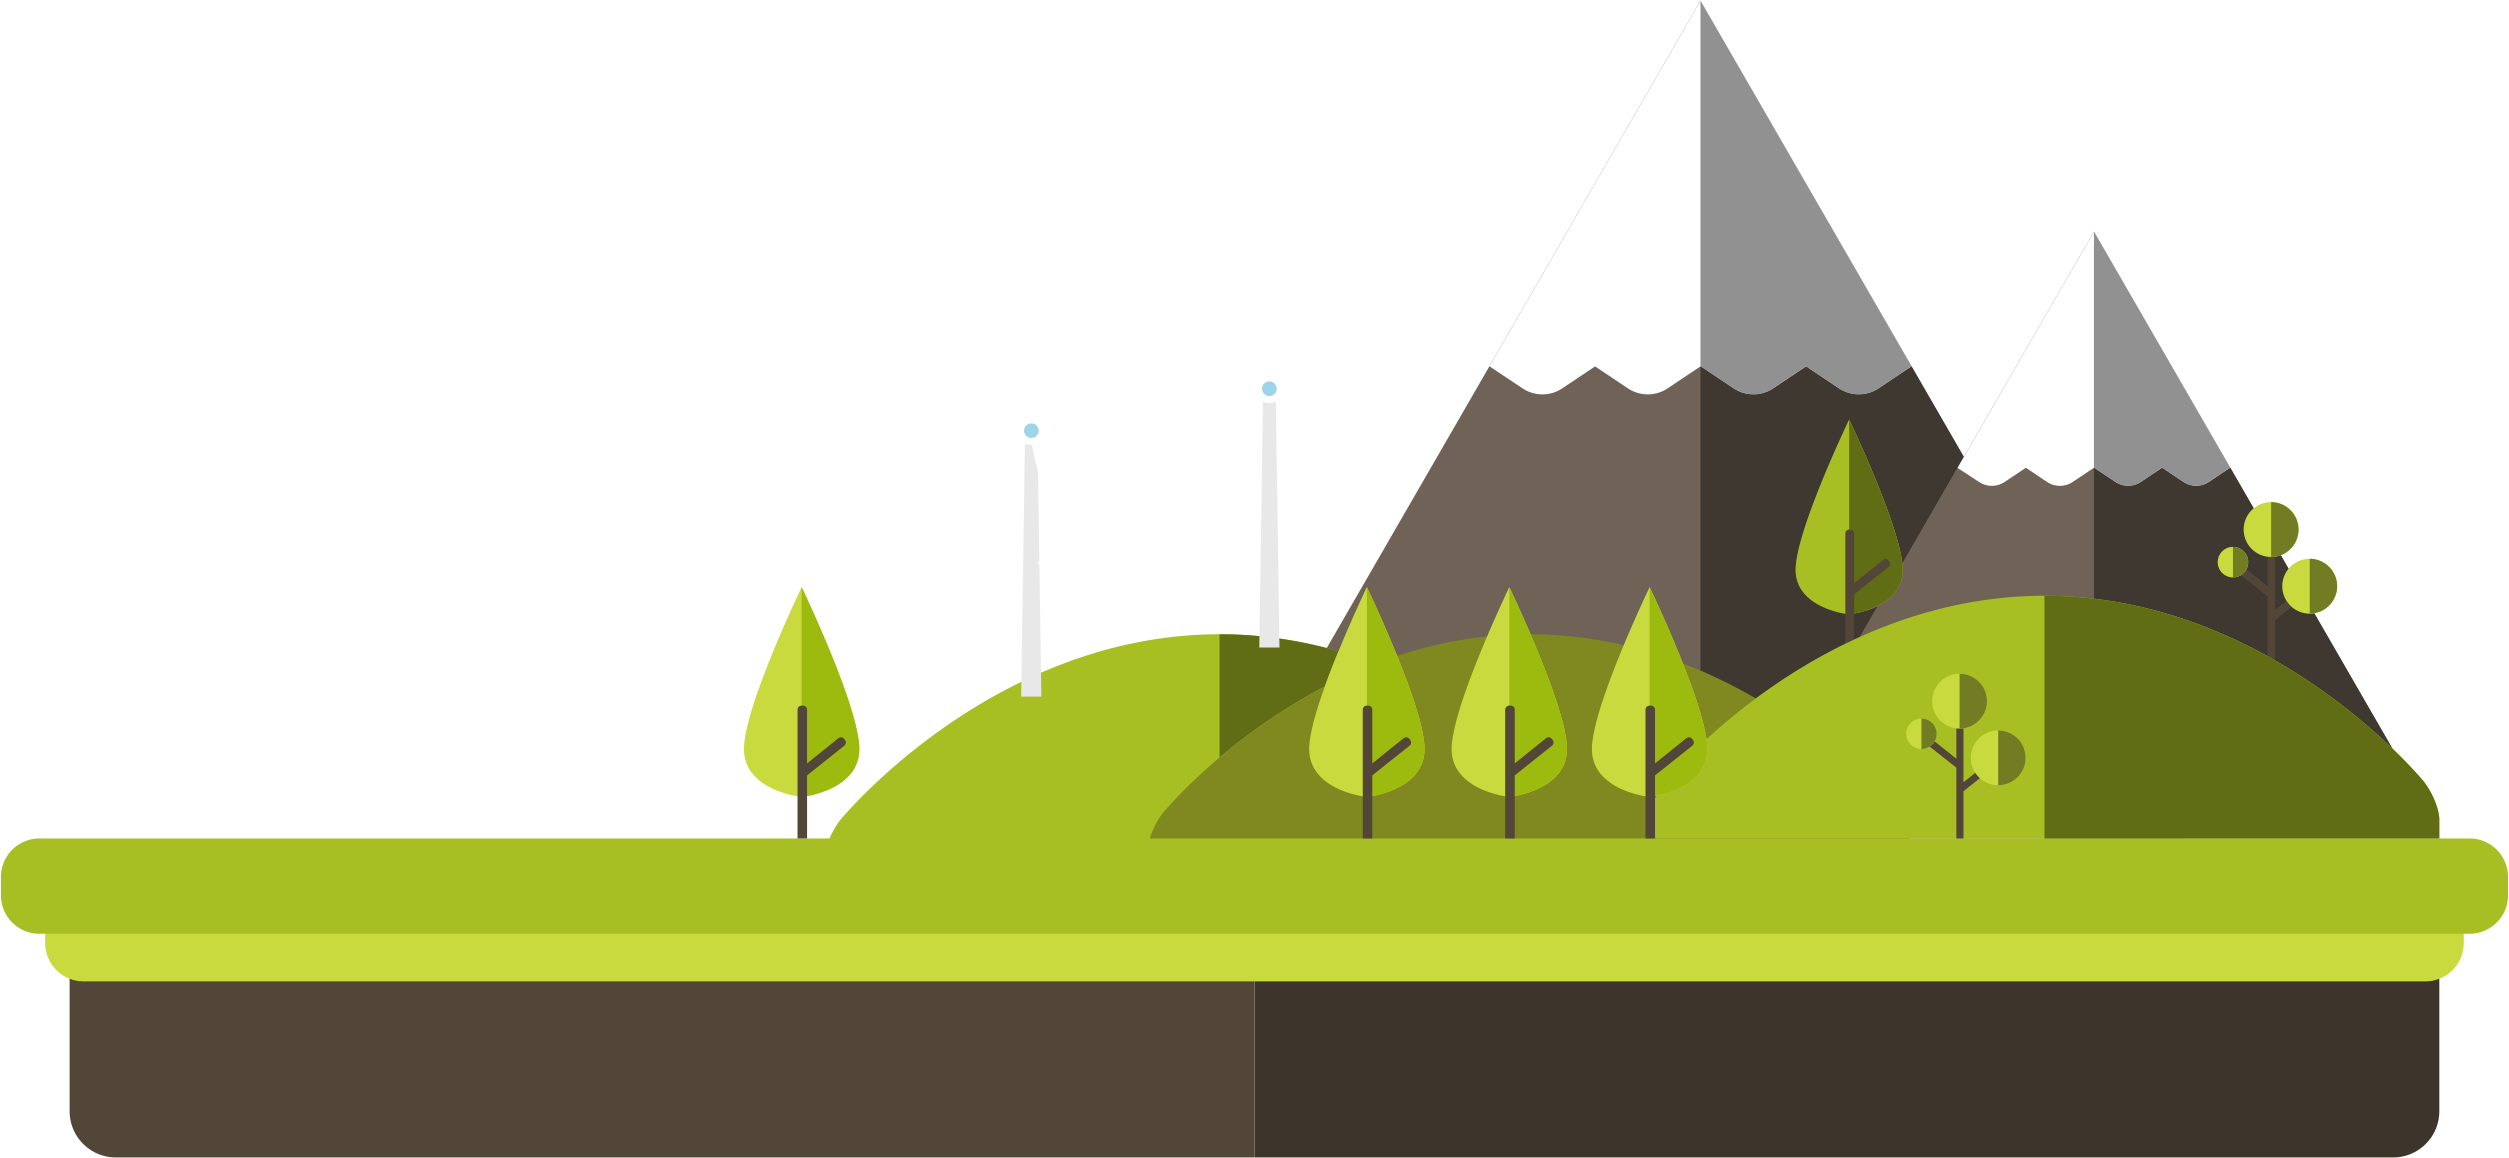
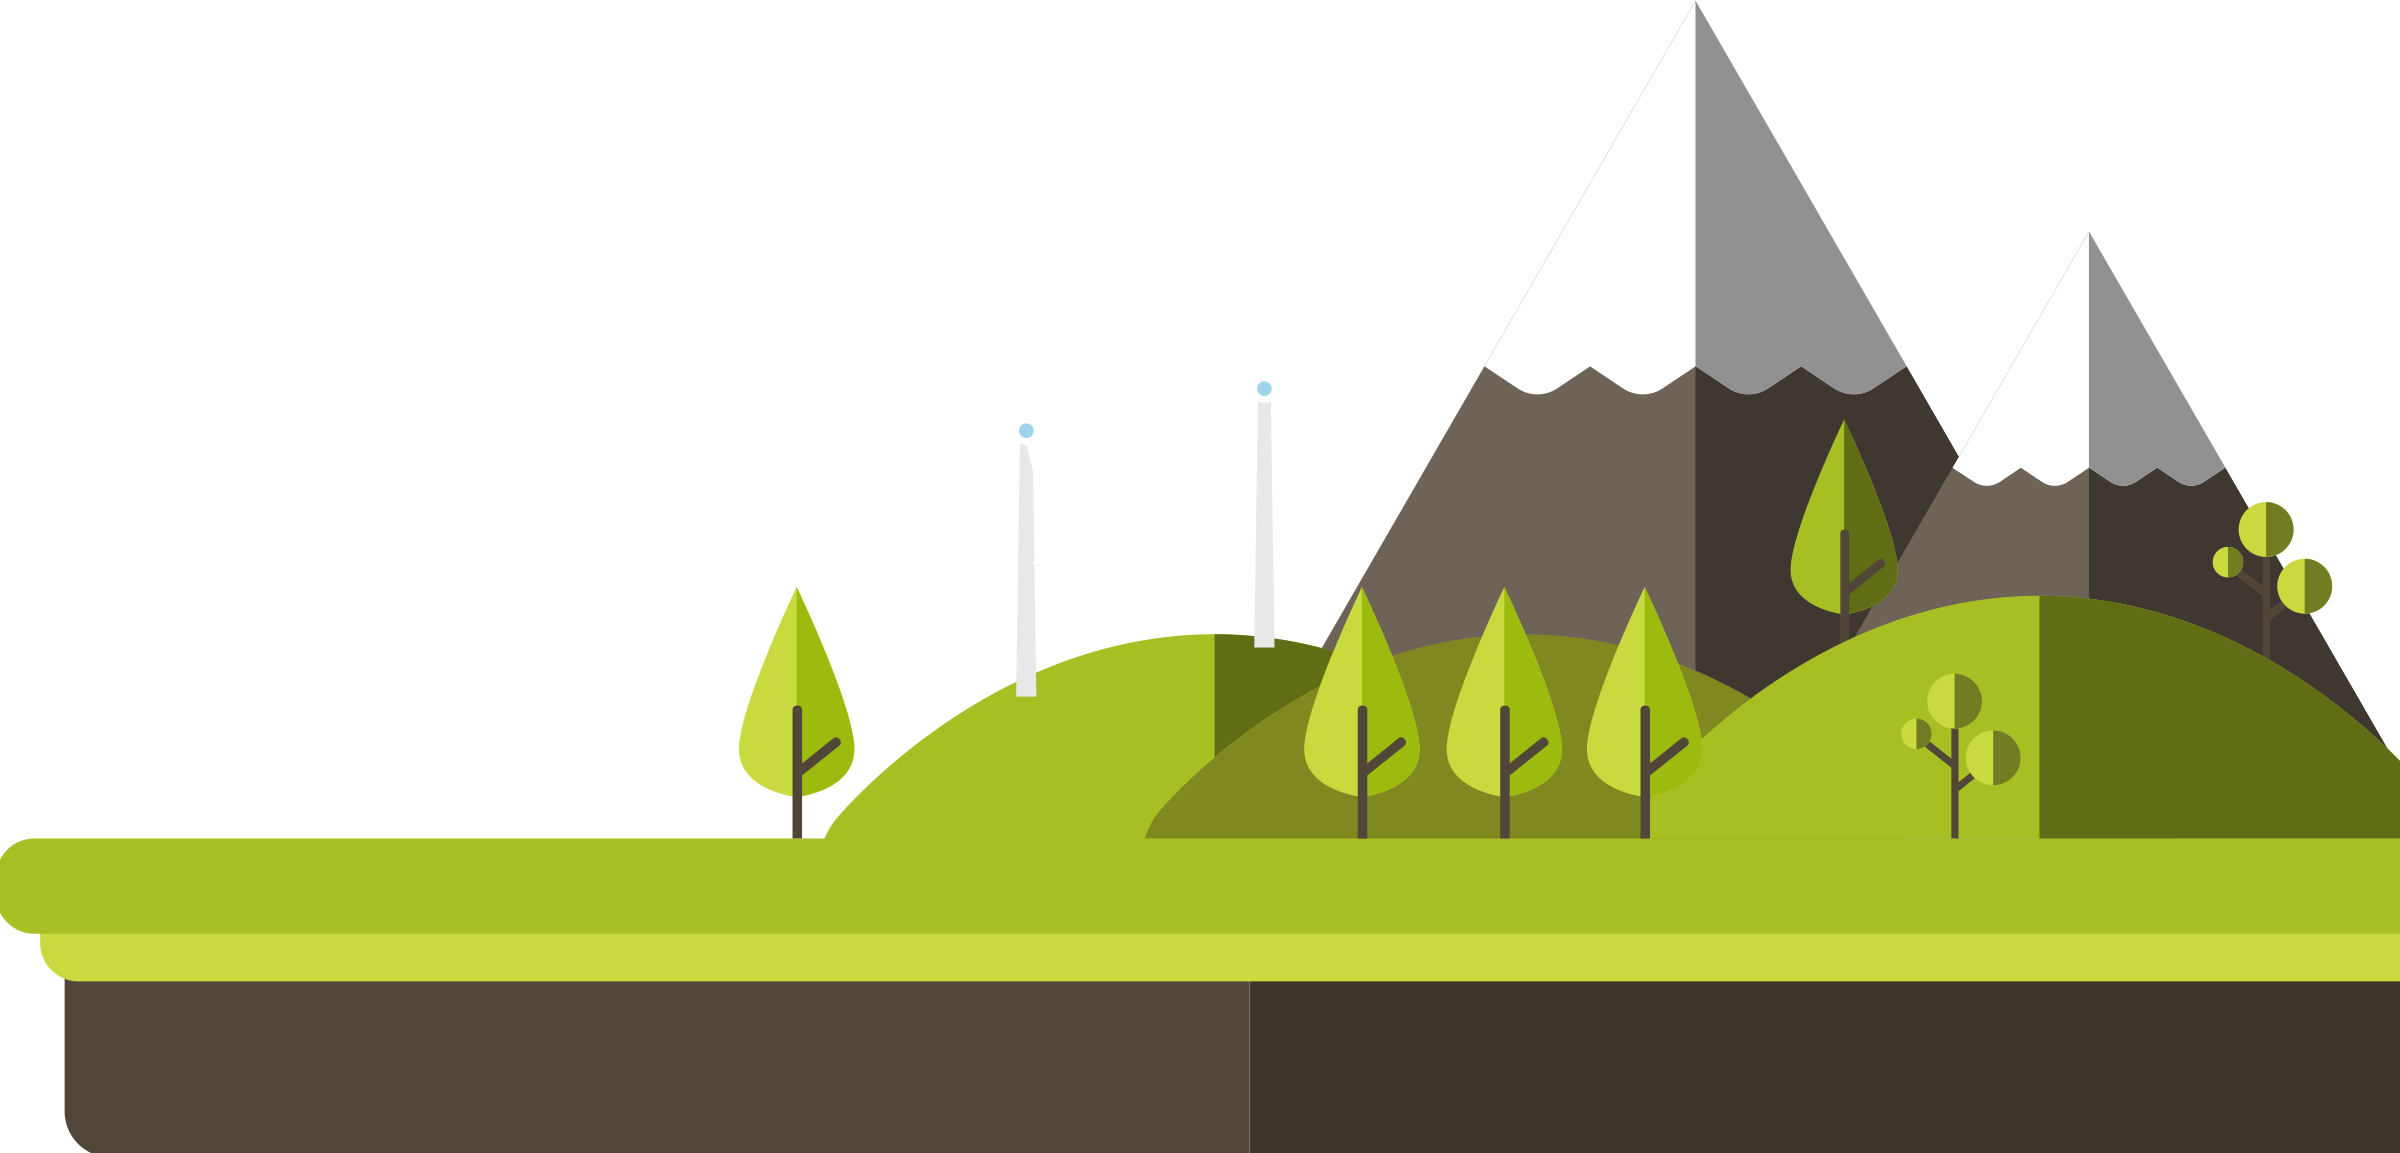
add preloader, add istana, backawan, gunung
belum responsive

diff --git a/index.html b/index.html
@@ -14,7 +14,57 @@
 </head>
 
 <body>
+    <div class="preloader-background">
+        <div class="preloader-wrapper big active">
+            <div class="spinner-layer spinner-blue">
+                <div class="circle-clipper left">
+                    <div class="circle"></div>
+                </div>
+                <div class="gap-patch">
+                    <div class="circle"></div>
+                </div>
+                <div class="circle-clipper right">
+                    <div class="circle"></div>
+                </div>
+            </div>
 
+            <div class="spinner-layer spinner-red">
+                <div class="circle-clipper left">
+                    <div class="circle"></div>
+                </div>
+                <div class="gap-patch">
+                    <div class="circle"></div>
+                </div>
+                <div class="circle-clipper right">
+                    <div class="circle"></div>
+                </div>
+            </div>
+
+            <div class="spinner-layer spinner-yellow">
+                <div class="circle-clipper left">
+                    <div class="circle"></div>
+                </div>
+                <div class="gap-patch">
+                    <div class="circle"></div>
+                </div>
+                <div class="circle-clipper right">
+                    <div class="circle"></div>
+                </div>
+            </div>
+
+            <div class="spinner-layer spinner-green">
+                <div class="circle-clipper left">
+                    <div class="circle"></div>
+                </div>
+                <div class="gap-patch">
+                    <div class="circle"></div>
+                </div>
+                <div class="circle-clipper right">
+                    <div class="circle"></div>
+                </div>
+            </div>
+        </div>
+    </div>
 
     <div class="navbar-fixed">
         <nav>
@@ -43,17 +93,20 @@
         </nav>
     </div>
 
-    <div class="fnt warna-bg">
+    <div id="header-crayon-itu" class="fnt warna-bg">
+
         <div id="header" class="center" data-aos="flip-left" data-aos-duration="3000">
             <img src="images/logo.png" alt="Logo Crayon" class="logo-crayon responsive-img">
         </div>
+
+        <img class="backawan" src="images/backawan.png" alt="">
+
         <div id="crayon-itu" class="warna-bg fnt">
             <div class="container">
-                <br>
+                <div class="row">
+                    <div data-aos="fade-down-right" data-aos-duration="2000">
+                        <h2 class="center">Crayon Itu</h2>
 
-                <h2 class="center">Crayon Itu</h2>
-                <div data-aos="fade-down-right" data-aos-duration="2000">
-                    <div class="row">
                         <div class="col s8">
                             <p class="ganjil">Children at Technology Competition atau disingkat CRAYON adalah acara kompetisi di bidang teknologi komputer yang diadakan khusus untuk melatih keterampilan anak dalam dua bidang sekaligus, yaitu seni rupa dan pemanfaatan teknologi. CRAYON terdiri dari lomba menggambar dengan menggunakan komputer dan dikhususkan untuk anak-anak kelas satu hingga kelas enam sekolah dasar di DIY dan sekitarnya.</p>
                         </div>
@@ -66,47 +119,52 @@
                         </div>
                     </div>
                 </div>
-
-            </div>
-        </div>
-        <div id="kompetisi" class="container">
-            <div class="fnt">
-                <h2 class="center">Kompetisi</h2>
-            </div>
-            <div class="row">
-                <div class="col s4">
-                    <div data-aos="fade-up" data-aos-duration="1000">
-                        <img src="images/balon1.png" alt="" class="responsive-img"></div>
-                    <div data-aos="zoom-in-up">
-                        <h4 class="center kategori">Kategori</h4>
-                    </div>
-                </div>
-
-                <div class="col s4">
-                    <div data-aos="fade-up" data-aos-duration="1000">
-                        <img src="images/balon2.png" alt="" class="responsive-img"></div>
-                    <div data-aos="zoom-in-up">
-                        <h4 class="center side-event">Side Event</h4>
-                    </div>
-                </div>
-                <div class="col s4">
-                    <div data-aos="fade-up" data-aos-duration="1000">
-                        <img src="images/balon3.png" alt="" class="responsive-img"></div>
-                    <div data-aos="zoom-in-up">
-                        <h4 class="center fasilitas">Fasilitas</h4>
-                    </div>
-                </div>
             </div>
         </div>
 
+        <div id="kompetisi" class="warna-bg fnt">
+            <div class="container">
+                <div class="fnt">
+                    <div data-aos="flip-left" data-aos-duration="1500" data-aos-offset="-20">
+                        <h2 class="center">Kompetisi</h2>
+                    </div>
+                </div>
+                <div class="row">
+                    <div class="col s4">
+                        <div data-aos="fade-up" data-aos-duration="1000">
+                            <img src="images/balon1.png" alt="" class="responsive-img"></div>
+                        <div data-aos="zoom-in-up" data-aos-offset="-30">
+                            <h4 class="center kategori">Kategori</h4>
+                        </div>
+                    </div>
+
+                    <div class="col s4">
+                        <div data-aos="fade-up" data-aos-duration="1000">
+                            <img src="images/balon2.png" alt="" class="responsive-img"></div>
+                        <div data-aos="zoom-in-up" data-aos-offset="-50">
+                            <h4 class="center side-event">Side Event</h4>
+                        </div>
+                    </div>
+                    <div class="col s4">
+                        <div data-aos="fade-up" data-aos-duration="1000">
+                            <img src="images/balon3.png" alt="" class="responsive-img"></div>
+                        <div data-aos="zoom-in-up" data-aos-offset="0">
+                            <h4 class="center fasilitas">Fasilitas</h4>
+                        </div>
+                    </div>
+                </div>
+            </div>
+        </div>
     </div>
 
 
     <div id="jadwal">
         <div class="container">
-            <h2 class="center">Jadwal</h2>
+            <div data-aos="flip-left" data-aos-duration="1500" data-aos-offset="-20">
+                <h2 class="center">Jadwal</h2>
+            </div>
             <section class="cd-horizontal-timeline">
-                <!--                <div data-aos="flip-right" data-aos-duration="2000">-->
+
                 <div class="timeline">
                     <div class="events-wrapper">
                         <div class="events">
@@ -158,7 +216,9 @@
 
     <div id="cara-daftar" class="warna-bg">
         <div class="container">
-            <h2 class="center">Cara Daftar</h2>
+            <div data-aos="flip-left" data-aos-duration="1500" data-aos-offset="-2-">
+                <h2 class="center">Cara Daftar</h2>
+            </div>
             <div class="row">
                 <div class="col s12 m6 l3">
                     <div data-aos="fade-up-right" data-aos-duration="2000">
@@ -199,21 +259,27 @@
             </div>
 
         </div>
-    </div>
 
-    <div id="video" class="warna-bg">
-        <div class="container center">
-            <h2 class="center">Video</h2>
-            <div class="video-container">
-                <iframe width="854" height="480" src="https://www.youtube.com/embed/Z1kzveRhF0k" frameborder="0" allow="autoplay; encrypted-media" allowfullscreen></iframe>
+
+        <div id="video" class="warna-bg">
+            <div class="container center">
+                <div data-aos="flip-left" data-aos-duration="1500" data-aos-offset="-20">
+                    <h2 class="center">Video</h2>
+                </div>
+                <div data-aos="fade-left" data-aos-duration="2000">
+                    <div class="video-container">
+                        <iframe width="854" height="480" src="https://www.youtube.com/embed/Z1kzveRhF0k" frameborder="0" allow="autoplay; encrypted-media" allowfullscreen></iframe>
+                    </div>
+                </div>
             </div>
         </div>
     </div>
 
-
     <div id="dokumentasi" class="warna-bg">
         <div class="container">
-            <h2 class="center">Dokumentasi</h2>
+            <div data-aos="flip-left" data-aos-duration="1500" data-aos-offset="-50">
+                <h2 class="center">Dokumentasi</h2>
+            </div>
             <div data-aos="fade-right" data-aos-duration="2000">
                 <div class="row">
                     <div class="col s12 m4"><img class="responsive-img" src="images/4.png" alt=""></div>
@@ -236,10 +302,12 @@
 
 
 
-    <div id="sponsor">
+    <div id="sponsor" class="warna-bg">
         <div class="container">
             <div class="fnt">
-                <h2 class="center">Sponsor &amp; Media Partner</h2>
+                <div data-aos="flip-left" data-aos-duration="1500" data-aos-offset="-50">
+                    <h2 class="center">Sponsor &amp; Media Partner</h2>
+                </div>
             </div>
             <p>Lorem ipsum dolor sit amet, consectetur adipisicing elit. Cumque, harum!</p>
         </div>
@@ -251,16 +319,17 @@
             <br>
             <br>
             <div class="langsung-saja">
-                <h1>Langsung Saja!</h1>
+                <div data-aos="flip-left" data-aos-duration="1500" data-aos-offset="-20">
+                    <h1>Langsung Saja!</h1>
+                </div>
             </div>
             <div class="contact fnt">
                 <p>Contact Person :</p>
                 <p>08xx xxxx xxxx (nama)</p>
                 <p>08xx xxxx xxxx (nama)</p>
-                <a class="waves-effect waves-light btn btn-daftar right">Daftar Sekarang!</a>
-                <br>
-                <br>
-                <br>
+                <!--                <a class="waves-effect waves-light btn btn-daftar center">Daftar Sekarang!</a>-->
+                <a class="waves-effect waves-light btn-large btn-daftar">Daftar Sekarang!</a>
+
             </div>
         </div>
     </div>
@@ -269,16 +338,22 @@
     <script type="text/javascript" src="https://code.jquery.com/jquery-2.1.1.min.js"></script>
     <script src="https://cdnjs.cloudflare.com/ajax/libs/materialize/0.100.2/js/materialize.min.js"></script>
     <script src="https://unpkg.com/aos@2.3.1/dist/aos.js">
-
-
     </script>
     <script>
         AOS.init();
+    </script>
+    <script>
+        document.addEventListener("DOMContentLoaded", function() {
+            $('.preloader-background').delay(2000).fadeOut('slow');
 
+            $('.preloader-wrapper')
+                .delay(2000)
+                .fadeOut();
+
+        });
     </script>
     <script>
         $(".button-collapse").sideNav();
-
     </script>
     <script src="js/crayon.js"></script>
 

diff --git a/css/crayon.css b/css/crayon.css
@@ -3,10 +3,25 @@
     padding: 0px;
 }
 
+
 .warna-bg {
     height: auto;
     width: 100%;
     background-color: #B6E4FB;
+}
+
+
+.preloader-background {
+    display: flex;
+    align-items: center;
+    justify-content: center;
+    background-color: white;
+    position: fixed;
+    z-index: 999999;
+    top: 0;
+    left: 0;
+    right: 0;
+    bottom: 0;
 }
 
 
@@ -19,7 +34,6 @@
 nav {
     box-shadow: none;
     background: rgba(182, 228, 251, 1);
-
 }
 
 
@@ -76,6 +90,8 @@ nav ul a {
 
 /*NAVBAR SELESAI*/
 
+#header-crayon-itu {}
+
 /*CRAYON ITU*/
 
 #header {
@@ -93,11 +109,21 @@ nav ul a {
     margin-top: 100px;
 }
 
-#crayon-itu {
-    background-image: url(../images/backawan.png);
-    background-size: cover;
-    background-repeat: no-repeat;
-    background-position: center;
+/*HEADER SELESAI*/
+
+#header-crayon-itu img.backawan {
+    position: absolute;
+    top: 100vh;
+    z-index: 0;
+    height: 130%;
+    width: 100%;
+}
+
+
+/*CRAYON ITU*/
+
+#crayon-itu h2 {
+    z-index: 99999;
 }
 
 #crayon-itu .ganjil {
@@ -223,7 +249,7 @@ nav ul a {
 
 #dokumentasi .col {
     padding: 0;
-    margin-top: -0.75rem;
+    margin-top: -0.76rem;
 }
 
 /*DOKUMENTASI SELESAI*/
@@ -243,10 +269,14 @@ nav ul a {
 /*REGISTER*/
 
 #register {
+    height: 85vh;
     background-image: url(../images/gunung.png);
-    background-size: contain;
+    background-size: 90%;
     background-repeat: no-repeat;
     background-position: right;
+    margin-bottom: 0;
+    margin: 0;
+    padding: 0;
 }
 
 h2 {
@@ -272,14 +302,9 @@ h1 {
 }
 
 #register .btn-daftar {
-    margin-right: 40px;
-    border-width: 2px;
-    border-color: red;
-    border-style: solid;
-    border-radius: 20px;
-    color: red;
+    margin-top: 40px;
+    color: white;
     text-transform: none;
-    background-color: white;
     font-size: 2rem !important;
 }
 
